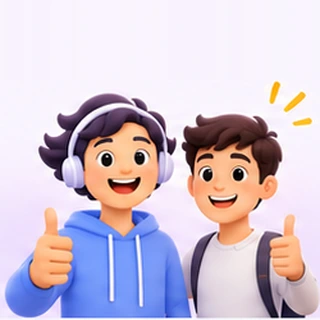
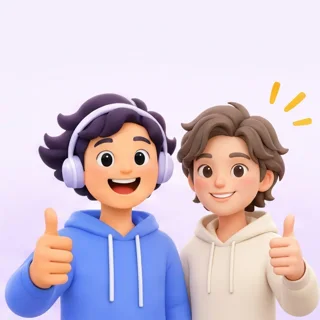
checkpoint before testing_agent_full_stack_o55
Emergent-Commit-Key: d935f93e17f556317a4f6991c1cbd87826fe65eae7a048607698565fdb2c4acd

diff --git a/frontend/src/pages/BiglypHome.jsx b/frontend/src/pages/BiglypHome.jsx
@@ -1,0 +1,126 @@
+import { useEffect } from "react";
+import { Link, useSearchParams } from "react-router-dom";
+import { ArrowRight, ArrowDown, ShieldCheck, Sparkles, CalendarCheck, Heart, Flower2, Sailboat, Sunrise } from "lucide-react";
+import { useTheme, ALL_PALETTES } from "@/lib/theme";
+import { BRANDS } from "@/lib/brand";
+import { ThemeToggle } from "@/components/Shell";
+import { Hero, AreasSection, HowSection, PrivacySection, Footer } from "@/pages/Landing";
+
+/** Order requested for the product switcher: youngest learners first. */
+const ORDER = ["focusedge", "mindedge", "mindmellow", "equimind"];
+const ICONS = { equimind: Heart, mindmellow: Flower2, mindedge: Sailboat, focusedge: Sunrise };
+const GRADES = { focusedge: "Class 6–8", mindedge: "Class 9–10", mindmellow: "Class 11–12", equimind: "University" };
+const BLURB = {
+  focusedge: "Focus, attention and study habits — a calm 40-question check-in with a 14-day starter plan.",
+  mindedge: "Stress in the board-exam build-up years — school, sleep, friends, family and screens.",
+  mindmellow: "Board exams, entrance tests and big decisions — gentle support for the final school years.",
+  equimind: "Academic, money, sleep and relationship stress for college and university students.",
+};
+
+const BiglypMark = () => (
+  <Link to="/" data-testid="biglyp-logo-link" className="flex items-center gap-2.5">
+    <span className="h-11 w-11 rounded-2xl grid place-items-center shadow-sm bg-gradient-to-br from-[#5a5fc8] via-[#2f6fa3] to-[#2d8a7c]">
+      <Sparkles className="h-5 w-5 text-white" strokeWidth={2.2} />
+    </span>
+    <span className="leading-none">
+      <span className="font-serif text-2xl font-semibold text-slate-900">Biglyp</span>
+      <span className="block font-mono text-[9px] uppercase tracking-[0.25em] text-slate-500 mt-1">Student wellbeing</span>
+    </span>
+  </Link>
+);
+
+const CommonHero = () => (
+  <section data-testid="biglyp-hero" className="relative overflow-hidden">
+    <div aria-hidden className="absolute -top-40 -left-32 h-[28rem] w-[28rem] rounded-full bg-[#dedff8] blur-3xl opacity-70" />
+    <div aria-hidden className="absolute -bottom-40 right-0 h-[26rem] w-[26rem] rounded-full bg-[#d6eee4] blur-3xl opacity-70" />
+    <div className="relative max-w-6xl mx-auto px-4 sm:px-8 pt-10 pb-16 lg:pt-16 lg:pb-20 grid lg:grid-cols-[1.05fr_1fr] gap-10 items-center">
+      <div>
+        <span className="inline-flex items-center gap-2 rounded-full bg-white/80 border border-slate-200 px-4 py-1.5 text-xs font-medium text-slate-600"><ShieldCheck className="h-3.5 w-3.5 text-[#2d8a7c]" /> Private · Non-diagnostic · Made in India</span>
+        <h1 data-testid="biglyp-hero-title" className="mt-6 font-serif text-4xl sm:text-5xl lg:text-6xl font-bold text-slate-900 leading-[1.05]">Small, honest steps to a <em className="text-[#5a5fc8]">calmer, more focused</em> you.</h1>
+        <p className="mt-6 text-lg text-slate-600 leading-relaxed max-w-xl">Biglyp brings four private check-ins together — one for every stage from Class 6 to university. A few minutes of honest answers become a friendly report and a 14-day plan of tiny, doable steps.</p>
+        <div className="mt-8 flex flex-wrap gap-3">
+          <a href="#programmes" data-testid="biglyp-hero-cta" className="h-12 px-6 rounded-full bg-slate-900 text-white font-medium inline-flex items-center gap-2 hover:bg-slate-700 transition-colors">Choose your programme <ArrowDown className="h-4 w-4" /></a>
+          <a href="#how" className="h-12 px-6 rounded-full bg-white border border-slate-200 text-slate-800 font-medium inline-flex items-center gap-2 hover:border-slate-400 transition-colors">How it works</a>
+        </div>
+        <div className="mt-10 grid grid-cols-3 gap-4 max-w-md">
+          {[["4", "Programmes"], ["6 → Uni", "Class 6 to university"], ["14-day", "Starter plans"]].map(([a, b]) => (
+            <div key={b}><div className="font-serif text-2xl font-bold text-slate-900 whitespace-nowrap">{a}</div><div className="text-xs text-slate-500 mt-1">{b}</div></div>
+          ))}
+        </div>
+      </div>
+      <div className="relative">
+        <img src="/how/biglyp_hero.webp" alt="Students of different ages relaxing together with books, a tablet and a laptop" data-testid="biglyp-hero-art" draggable={false} className="w-full h-auto select-none mix-blend-multiply" />
+        <div className="absolute bottom-4 left-2 sm:left-6 rounded-2xl bg-white/90 backdrop-blur shadow-lg border border-slate-100 px-4 py-3 flex items-center gap-3">
+          <CalendarCheck className="h-5 w-5 text-[#2d8a7c]" />
+          <div className="text-xs"><div className="font-semibold text-slate-800">One check-in, one plan</div><div className="text-slate-500">Tiny steps, tracked daily</div></div>
+        </div>
+      </div>
+    </div>
+  </section>
+);
+
+const ProductSwitcher = ({ sel, pick }) => (
+  <section id="programmes" data-testid="biglyp-product-switcher" className="max-w-6xl mx-auto px-4 sm:px-8 pt-4 pb-10 scroll-mt-4">
+    <p className="font-mono text-xs uppercase tracking-[0.25em] text-slate-500">Choose your programme</p>
+    <h2 className="mt-2 font-serif text-3xl sm:text-4xl font-bold text-slate-900">Which one fits you?</h2>
+    <div role="tablist" aria-label="Biglyp programmes" className="mt-7 grid sm:grid-cols-2 lg:grid-cols-4 gap-4">
+      {ORDER.map((k) => {
+        const b = BRANDS[k];
+        const Icon = ICONS[k];
+        const c = ALL_PALETTES[b.palettes[0]].p;
+        const on = sel === k;
+        return (
+          <button key={k} role="tab" aria-selected={on} data-testid={`hub-product-${k}`} onClick={() => pick(k)}
+            className={`relative text-left rounded-3xl p-5 border-2 transition-all duration-300 ${on ? "bg-white shadow-[0_24px_50px_-30px_rgba(15,23,42,0.45)] -translate-y-0.5" : "bg-white/60 border-transparent hover:bg-white hover:border-slate-200"}`}
+            style={on ? { borderColor: c } : {}}>
+            <div className="flex items-center justify-between">
+              <span className="h-11 w-11 rounded-2xl grid place-items-center" style={{ background: c }}><Icon className="h-5 w-5 text-white" strokeWidth={2.2} /></span>
+              <span className="rounded-full px-3 py-1 text-[11px] font-semibold" style={{ background: `${c}1a`, color: c }}>{GRADES[k]}</span>
+            </div>
+            <div className="mt-4 font-serif text-xl font-bold text-slate-900">{b.name}</div>
+            <p className="mt-1.5 text-sm text-slate-600 leading-relaxed">{BLURB[k]}</p>
+            <div className="mt-4 text-sm font-medium inline-flex items-center gap-1.5" style={{ color: c }}>{on ? "Showing below" : "Explore"} <ArrowRight className="h-4 w-4" /></div>
+          </button>
+        );
+      })}
+    </div>
+  </section>
+);
+
+export default function BiglypHome() {
+  const { setBrand, B } = useTheme();
+  const [params, setParams] = useSearchParams();
+  const q = params.get("p");
+  const sel = BRANDS[q] ? q : B.key;
+  useEffect(() => { setBrand(sel); }, [sel]); // eslint-disable-line react-hooks/exhaustive-deps
+  useEffect(() => { document.title = "Biglyp — Student wellbeing check-ins"; }, [B.key]);
+  const pick = (k) => setParams({ p: k }, { replace: true });
+  return (
+    <div data-testid="biglyp-home" className="bg-gradient-to-b from-white via-[#f7f8fc] to-white">
+      <header className="max-w-6xl mx-auto px-4 sm:px-8 h-20 flex items-center justify-between">
+        <BiglypMark />
+        <nav className="hidden md:flex gap-8 text-sm text-slate-600">
+          <a href="#programmes" className="hover:text-slate-900">Programmes</a>
+          <a href="#how" className="hover:text-slate-900">How it works</a>
+          <a href="#privacy" className="hover:text-slate-900">Privacy</a>
+        </nav>
+        <Link to={B.login} data-testid="biglyp-sign-in-btn" className="h-10 px-5 rounded-full bg-slate-900 text-white text-sm whitespace-nowrap inline-flex items-center hover:bg-slate-700 transition-colors">Sign in to {B.name}</Link>
+      </header>
+      <CommonHero />
+      <ProductSwitcher sel={sel} pick={pick} />
+      {B.key === sel && (
+        <div data-testid={`hub-product-panel-${sel}`} key={sel} className="eq-rise border-t border-slate-200/70 bg-eq-bg/40">
+          <div className="max-w-6xl mx-auto px-4 sm:px-8 pt-6 flex flex-wrap items-center justify-between gap-3">
+            <span className="font-mono text-xs uppercase tracking-[0.25em] text-eq">{B.name} · {GRADES[sel]}</span>
+            <div className="flex items-center gap-3"><ThemeToggle /><Link to={B.home} data-testid="hub-open-product-page" className="text-sm font-medium text-eq-dark hover:underline">Open {B.name} page →</Link></div>
+          </div>
+          <Hero />
+          <AreasSection />
+          <HowSection />
+          <PrivacySection />
+        </div>
+      )}
+      <Footer />
+    </div>
+  );
+}

diff --git a/frontend/src/components/report/HelpBodyAbout.jsx b/frontend/src/components/report/HelpBodyAbout.jsx
@@ -1,6 +1,6 @@
 import { Copy, Phone, MessageCircleMore, Sun, Pill, Droplet, HeartPulse, UtensilsCrossed, Footprints, Stethoscope, Eye, Moon } from "lucide-react";
 import { toast } from "sonner";
-import { PageShell, Art } from "@/components/report/PageShell";
+import { PageShell, Art, RImg } from "@/components/report/PageShell";
 import { fmtDate } from "@/lib/api";
 import { brandOf } from "@/lib/brand";
 const isFE = (r) => r?.programme === "focusedge";
@@ -37,7 +37,7 @@ export const HelpContent = ({ r }) => {
       <div className="grid md:grid-cols-2 gap-4">
         {tiers(r).map((x, i) => (
           <div key={x.t} data-testid={`help-tier-${i + 1}`} className={`rounded-2xl p-5 grid grid-cols-[96px_1fr] sm:grid-cols-[120px_1fr] gap-4 items-center ${x.c}`}>
-            <img src={`/report-art/${x.art}.webp`} alt="" draggable={false} className="w-full h-auto" data-testid={`help-tier-art-${i + 1}`} />
+            <RImg src={`/report-art/${x.art}.webp`} alt="" draggable={false} className="w-full h-auto" data-testid={`help-tier-art-${i + 1}`} />
             <div className="border-l border-current/20 pl-4" style={{ borderColor: "rgba(100,116,139,0.25)" }}>
               <div className="flex items-center justify-between gap-2"><h3 className="font-semibold">{x.t}</h3>{x.strong && <span className="text-[10px] font-mono uppercase bg-white/25 rounded-full px-2 py-0.5">Strongly suggested</span>}</div>
               <p className="mt-2 text-sm opacity-90 leading-relaxed">{x.d}</p>
@@ -83,10 +83,10 @@ export const BodyPage = ({ r, n, total }) => (
     </div>
     <div className="mt-6 grid md:grid-cols-2 gap-4 text-sm">
       <div className="rounded-2xl bg-eq-soft p-5"><h4 className="font-semibold text-eq-dark">What a basic health check-up looks like</h4>
-        <div className="mt-3 grid grid-cols-[90px_1fr] gap-4 items-center"><img src="/report-art/body_check.webp" alt="" draggable={false} className="w-full h-auto" />
+        <div className="mt-3 grid grid-cols-[90px_1fr] gap-4 items-center"><RImg src="/report-art/body_check.webp" alt="" draggable={false} className="w-full h-auto" />
         {isFE(r) ? <ul data-testid="body-checkup-fe" className="border-l border-slate-300/60 pl-4 space-y-1.5 text-slate-700"><li>Ask a parent to book a 15-minute visit to a family doctor. Tell them: &lsquo;I&apos;ve been having trouble focusing and feeling tired for weeks.&rsquo;</li><li>Common checks for your age: CBC, ferritin / iron, Vitamin D, Vitamin B12, thyroid (TSH), and a simple eye check.</li><li>If focus problems have been there for a long time and clearly affect school, the doctor may suggest a paediatrician or psychologist. That&apos;s routine — not something to worry about.</li></ul> :
         <ul className="border-l border-slate-300/60 pl-4 space-y-1.5 text-slate-700"><li>A 15-minute visit to your {brandOf(r).school ? "school" : "campus"} health centre or a GP. Tell them: &lsquo;I&apos;ve been tired, sleeping poorly and finding it hard to focus for weeks.&rsquo;</li><li>A common basic panel: CBC, ferritin / iron studies, Vitamin D (25-OH), Vitamin B12, thyroid (TSH). The doctor decides which tests fit.</li></ul>}</div></div>
-      <div className="rounded-2xl bg-[#fef3c7] p-5"><h4 className="font-semibold text-[#92400e]">Both can be true</h4><div className="mt-3 grid grid-cols-[90px_1fr] gap-4 items-center"><img src="/report-art/body_scale.webp" alt="" draggable={false} className="w-full h-auto" /><p className="border-l border-amber-300/70 pl-4 text-slate-700">{isFE(r) ? "Focus problems can come from the body AND from habits — usually both. Fix the body, keep the plan, and keep talking to your parents and teachers." : <>Stress is real AND a physical shortfall can make it harder to cope. Rule out the physical, keep going with the plan{r.path === 2 ? ", and keep your counsellor appointment" : ""}. This report never prescribes supplements or doses.</>}</p></div></div>
+      <div className="rounded-2xl bg-[#fef3c7] p-5"><h4 className="font-semibold text-[#92400e]">Both can be true</h4><div className="mt-3 grid grid-cols-[90px_1fr] gap-4 items-center"><RImg src="/report-art/body_scale.webp" alt="" draggable={false} className="w-full h-auto" /><p className="border-l border-amber-300/70 pl-4 text-slate-700">{isFE(r) ? "Focus problems can come from the body AND from habits — usually both. Fix the body, keep the plan, and keep talking to your parents and teachers." : <>Stress is real AND a physical shortfall can make it harder to cope. Rule out the physical, keep going with the plan{r.path === 2 ? ", and keep your counsellor appointment" : ""}. This report never prescribes supplements or doses.</>}</p></div></div>
     </div>
   </PageShell>
 );

diff --git a/frontend/src/pages/Landing.jsx b/frontend/src/pages/Landing.jsx
@@ -117,7 +117,7 @@ const HeroCard = () => {
   );
 };
 
-const Hero = () => (
+export const Hero = () => (
   <section className="relative overflow-hidden">
     <div className="absolute inset-0 eq-grain opacity-60" />
     <div className="relative max-w-6xl mx-auto px-4 sm:px-8 pt-12 pb-20 lg:pt-20 lg:pb-28 grid lg:grid-cols-[1.1fr_0.9fr] gap-14 items-center">
@@ -150,7 +150,7 @@ const Hero = () => (
   </section>
 );
 
-const AreasSection = () => (
+export const AreasSection = () => (
   <section id="areas" className="max-w-6xl mx-auto px-4 sm:px-8 py-20">
     <p className="font-mono text-xs uppercase tracking-[0.25em] text-eq">{COPY[useBrand().key].areasEyebrow || "Six areas of student life"}</p>
     <h2 className="mt-3 font-serif text-3xl sm:text-4xl font-bold text-slate-900 max-w-2xl">{COPY[useBrand().key].areasTitle || "Stress rarely lives in one place. We look at all six."}</h2>
@@ -166,10 +166,12 @@ const AreasSection = () => (
   </section>
 );
 
-const HowSection = () => (
+export const HowSection = () => (
   <section id="how" className="bg-white/60 border-y border-eq/10">
     <div className="max-w-6xl mx-auto px-4 sm:px-8 py-20 grid lg:grid-cols-2 gap-14 items-center">
-      <img src="https://images.unsplash.com/photo-1514369118554-e20d93546b30?crop=entropy&cs=srgb&fm=jpg&q=80&w=1200" alt="Student writing in a journal" className="rounded-[2rem] w-full h-[420px] object-cover" />
+      <div className="rounded-[2rem] bg-white border border-eq/10 shadow-[0_24px_60px_-36px_rgb(var(--eq-p)/0.5)] p-6 grid place-items-center">
+        <img data-testid="how-it-works-art" src={`/how/${useBrand().key}.webp`} alt={`${useBrand().name} check-in illustration`} draggable={false} className="w-full max-w-[420px] h-[380px] object-contain select-none" />
+      </div>
       <div>
         <p className="font-mono text-xs uppercase tracking-[0.25em] text-eq">How it works</p>
         <h2 className="mt-3 font-serif text-3xl sm:text-4xl font-bold text-slate-900">A map to act on — <em className="text-eq">not a verdict.</em></h2>
@@ -186,7 +188,7 @@ const HowSection = () => (
   </section>
 );
 
-const PrivacySection = () => (
+export const PrivacySection = () => (
   <section id="privacy" className="max-w-6xl mx-auto px-4 sm:px-8 py-20 grid md:grid-cols-[1fr_1.2fr] gap-10 items-start">
     <div>
       <span className="h-12 w-12 rounded-2xl bg-[#1b1e3d] grid place-items-center"><Lock className="h-5 w-5 text-[#fbbf24]" /></span>
@@ -199,7 +201,7 @@ const PrivacySection = () => (
   </section>
 );
 
-const Footer = () => (
+export const Footer = () => (
   <footer className="border-t border-eq/10">
     <div className="max-w-6xl mx-auto px-4 sm:px-8 py-14 grid sm:grid-cols-[2fr_1fr_1fr] gap-10">
       <div><Logo /><p className="mt-4 text-sm text-slate-500 max-w-sm">Supporting student wellbeing with honest self-reflection and small, doable actions.</p></div>

diff --git a/frontend/src/components/report/ProgressPages.jsx b/frontend/src/components/report/ProgressPages.jsx
@@ -1,4 +1,4 @@
-import { PageShell, Art } from "@/components/report/PageShell";
+import { PageShell, Art, RImg } from "@/components/report/PageShell";
 import { weekStats, week1Writeup, week2Writeup, trendInsights, bandName, nextStepsPlan } from "@/lib/progress";
 import { ArrowUpRight, ArrowDownRight, Minus, Check, CalendarCheck, SquareCheck, CalendarDays, Smile, Target, TrendingUp } from "lucide-react";
 
@@ -18,7 +18,7 @@ const WeekBody = ({ s, prev, w = 1, art = "/report-art/week.webp" }) => (
 
 const Writeup = ({ title, children, clip = "/report-art/week_clip.webp", testid }) => (
   <div data-testid={testid} className="mt-7 rounded-2xl bg-eq-soft p-6 grid sm:grid-cols-[120px_1fr] gap-5 items-center">
-    <img src={clip} alt="" draggable={false} className="hidden sm:block w-full h-auto" />
+    <RImg src={clip} alt="" draggable={false} className="hidden sm:block w-full h-auto" />
     <div className="sm:border-l sm:border-eq/20 sm:pl-5">
       <h3 className="font-mono text-[11px] uppercase tracking-widest text-eq-dark">{title}</h3>
       {children}
@@ -95,7 +95,7 @@ export const NextStepsPage = ({ r, n, total }) => {
           return (
             <div key={k} data-testid={`next-option-${k}`} data-recommended={on} className={`relative rounded-2xl p-5 sm:p-6 border-2 ${o.tint} ${on ? "border-[#6d5ce7]" : "border-transparent"}`}>
               {on && <span className="absolute -top-3 left-1/2 -translate-x-1/2 whitespace-nowrap rounded-full bg-[#6d5ce7] text-white text-[11px] leading-4 font-semibold px-3 py-1">Recommended for you</span>}
-              <img src={o.art} alt="" draggable={false} className="block mx-auto h-24 w-auto object-contain select-none" />
+              <RImg src={o.art} alt="" draggable={false} className="block mx-auto h-24 w-auto object-contain select-none" />
               <h3 className="mt-4 font-serif text-xl font-bold leading-snug text-slate-900">{o.title}</h3>
               <p className="mt-2 text-[15px] leading-relaxed text-slate-700">{o.body}</p>
             </div>
@@ -103,7 +103,7 @@ export const NextStepsPage = ({ r, n, total }) => {
         })}
       </div>
       <div data-testid="next-steps-list" className="mt-6 flow-root rounded-2xl bg-white border border-eq/15 p-5 sm:p-6">
-        <img src="/report-art/next_study.webp" alt="" data-testid="next-steps-list-art" draggable={false} className="hidden md:block float-right w-[36%] max-w-[340px] ml-6 mb-2 select-none" />
+        <RImg src="/report-art/next_study.webp" alt="" data-testid="next-steps-list-art" draggable={false} className="hidden md:block float-right w-[36%] max-w-[340px] ml-6 mb-2 select-none" />
         <h3 className="font-mono text-[12px] uppercase tracking-widest text-eq-dark">{ns.listTitle}</h3>
         <ul className="mt-4 space-y-4">
           {ns.items.map((a) => (

diff --git a/frontend/src/components/report/PageShell.jsx b/frontend/src/components/report/PageShell.jsx
@@ -5,6 +5,15 @@ import { useBrand } from "@/lib/theme";
 /** Brand of the report being shown (may differ from the viewer's brand for shared counsellors). */
 export const ReportBrandCtx = createContext(null);
 
+/** FocusEdge reports use their own 3D illustration set (public/report-art/fe/). */
+export const useArtSrc = () => {
+  const B = useContext(ReportBrandCtx);
+  return (src) => (B?.key === "focusedge" && typeof src === "string" ? src.replace(/^\/report-art\/(fe_)?/, "/report-art/fe/") : src);
+};
+
+/** <img> for report illustrations (maps to the programme's art set). */
+export const RImg = ({ src, ...rest }) => <img src={useArtSrc()(src)} {...rest} />;
+
 const MOTIFS = [Sun, Mountain, Waves, Leaf, Sprout, Feather, Moon, Cloud, Wind, Flower2, Star];
 
 export const PageShell = ({ n, total, title, eyebrow, id, children, dark, testid, art, artAlt = "", inline, side, headExtra }) => {
@@ -26,7 +35,7 @@ export const PageShell = ({ n, total, title, eyebrow, id, children, dark, testid
           {headExtra && <div className="mt-8">{headExtra}</div>}
         </div>
         {side && <div className="min-w-0">{side}</div>}
-        {art && <img src={art} alt={artAlt} data-testid={`${testid}-art`} draggable={false} className="h-24 w-24 sm:h-36 sm:w-36 shrink-0 rounded-3xl object-cover ring-1 ring-eq/10 shadow-[0_12px_30px_-18px_rgb(var(--eq-p)/0.6)]" />}
+        {art && <RImg src={art} alt={artAlt} data-testid={`${testid}-art`} draggable={false} className="h-24 w-24 sm:h-36 sm:w-36 shrink-0 rounded-3xl object-cover ring-1 ring-eq/10 shadow-[0_12px_30px_-18px_rgb(var(--eq-p)/0.6)]" />}
       </div>
       <div className="mt-7">{children}</div>
       <div className={`mt-10 pt-4 border-t text-[10px] font-mono uppercase tracking-widest flex justify-between ${dark ? "ft-line ft-faint" : "border-slate-100 text-slate-400"}`}>
@@ -41,5 +50,5 @@ export const Pill = ({ children, className = "" }) => (
 );
 
 export const Art = ({ src, alt = "", testid, className = "" }) => (
-  <img src={src} alt={alt} data-testid={testid} draggable={false} className={`block w-full h-auto object-contain select-none ${className}`} />
+  <RImg src={src} alt={alt} data-testid={testid} draggable={false} className={`block w-full h-auto object-contain select-none ${className}`} />
 );

diff --git a/frontend/src/components/home/CalmStreak.jsx b/frontend/src/components/home/CalmStreak.jsx
@@ -1,7 +1,7 @@
 import { Flame } from "lucide-react";
 import { Tooltip, TooltipContent, TooltipProvider, TooltipTrigger } from "@/components/ui/tooltip";
 import { elapsedDays } from "@/lib/progress";
-import { PHASES, STAGES, currentStage, toNextStage, PER_STAGE } from "@/lib/stages";
+import { PHASES, STAGES, currentStage, toNextStage, PER_STAGE, stageSrc } from "@/lib/stages";
 
 export const BADGES = [
   { name: "First Step", msg: "You showed up for yourself. Every journey starts exactly like this." },
@@ -80,7 +80,7 @@ export const StreakCard = ({ r, onOpenDaily, pending }) => {
                   <button data-testid={`streak-badge-${i + 1}`} data-earned={got} aria-label={`${b.name}: ${st.caption}`}
                     className="group flex flex-col items-center focus:outline-none">
                     <span className={`relative h-12 w-12 sm:h-14 sm:w-14 rounded-full overflow-hidden transition-transform duration-300 group-hover:-translate-y-0.5 ${got ? "ring-2 ring-eq shadow-[0_6px_16px_-6px_rgb(var(--eq-p)/0.7)]" : next ? "outline-dashed outline-2 outline-eq/50 outline-offset-2" : "ring-1 ring-slate-200"}`}>
-                      <img src={st.src} alt={st.caption} draggable={false} className={`h-full w-full object-cover ${got ? "" : "grayscale opacity-40"}`} />
+                      <img src={stageSrc(st.n, r?.programme)} alt={st.caption} draggable={false} className={`h-full w-full object-cover ${got ? "" : "grayscale opacity-40"}`} />
                     </span>
                     <span className={`mt-1.5 h-4 min-w-4 px-1 rounded-full text-[10px] font-semibold grid place-items-center ${got ? "bg-eq text-white" : "bg-slate-100 text-slate-400"}`}>{i + 1}</span>
                   </button>

diff --git a/frontend/src/components/report/PlanTrack.jsx b/frontend/src/components/report/PlanTrack.jsx
@@ -1,5 +1,5 @@
 import { Clock, CalendarDays, Lightbulb, ListChecks } from "lucide-react";
-import { PageShell, Art } from "@/components/report/PageShell";
+import { PageShell, Art, RImg } from "@/components/report/PageShell";
 
 const ICON_BY_ID = { "fe-wake": "ic_wake", "fe-pomo": "ic_laptop", "fe-2min": "ic_laptop", "fe-checkin": "ic_breath", "fe-478": "ic_breath", "fe-askhelp": "ic_chat", "fe-buddy": "ic_chat", "fe-phone": "ic_check", "b-phone": "ic_check", "b-dump": "ic_check", "e-three": "ic_check", "b-wake": "ic_wake", "a-10min": "ic_laptop", "c-breath": "ic_breath", "f-money": "ic_chat", "c-checkin": "ic_check" };
 const ICON_BY_AREA = { a: "ic_laptop", b: "ic_wake", c: "ic_breath", d: "ic_chat", e: "ic_check", f: "ic_chat" };
@@ -17,7 +17,7 @@ export const planIcons = (plan) => {
 const Activity = ({ a, i, icon }) => (
   <div data-testid={`plan-activity-${i}`} className="rounded-3xl border border-eq/10 bg-gradient-to-r from-eq-bg/70 to-white grid md:grid-cols-[1fr_1.25fr] overflow-hidden" style={{ breakInside: "avoid" }}>
     <div className="p-5 flex items-center gap-4">
-      <img src={icon} alt="" data-testid={`plan-activity-icon-${i}`} draggable={false} className="h-24 w-24 sm:h-28 sm:w-28 shrink-0 object-contain" />
+      <RImg src={icon} alt="" data-testid={`plan-activity-icon-${i}`} draggable={false} className="h-24 w-24 sm:h-28 sm:w-28 shrink-0 object-contain" />
       <div className="min-w-0">
         <div className="flex items-start gap-3">
           <span className="h-8 w-8 shrink-0 rounded-lg bg-eq text-white font-semibold grid place-items-center">{i + 1}</span>

diff --git a/frontend/src/components/Avatar.jsx b/frontend/src/components/Avatar.jsx
@@ -1,9 +1,12 @@
 import { motion, AnimatePresence } from "framer-motion";
-import { STAGES } from "@/lib/stages";
+import { STAGES, stageSrc } from "@/lib/stages";
+import { useBrand } from "@/lib/theme";
 
 /** Progress avatar: shows the student's growth stage (1-14). Stages only move forward. */
-export const Student = ({ stage = 1, bounce, dim, size = "h-44 w-44", testid = "student-avatar" }) => {
-  const s = STAGES[Math.max(1, Math.min(14, stage)) - 1];
+export const Student = ({ stage = 1, bounce, dim, size = "h-44 w-44", testid = "student-avatar", programme }) => {
+  const B = useBrand();
+  const s0 = STAGES[Math.max(1, Math.min(14, stage)) - 1];
+  const s = { ...s0, src: stageSrc(s0.n, programme || B?.key) };
   return (
     <motion.div data-testid={testid} data-stage={s.n} className={`relative mx-auto ${size}`}
       animate={bounce ? { y: [0, -12, 0], scale: [1, 1.05, 1] } : { y: 0 }} transition={{ duration: 0.6 }}>

diff --git a/frontend/src/App.js b/frontend/src/App.js
@@ -3,6 +3,7 @@ import { BrowserRouter, Routes, Route, Navigate } from "react-router-dom";
 import { Toaster } from "@/components/ui/sonner";
 import { AuthProvider, useAuth } from "@/lib/auth";
 import { ThemeProvider, useBrand } from "@/lib/theme";
+import BiglypHome from "@/pages/BiglypHome";
 import Landing from "@/pages/Landing";
 import Login from "@/pages/Login";
 import StudentHome from "@/pages/StudentHome";
@@ -31,7 +32,8 @@ function App() {
       <AuthProvider>
         <BrowserRouter>
           <Routes>
-            <Route path="/" element={<Landing />} />
+            <Route path="/" element={<BiglypHome />} />
+            <Route path="/equimind" element={<Landing brand="equimind" />} />
             <Route path="/login" element={<Login />} />
             <Route path="/mindmellow" element={<Landing brand="mindmellow" />} />
             <Route path="/mindmellow/login" element={<Login brand="mindmellow" />} />

diff --git a/frontend/src/components/report/ReportPages.jsx b/frontend/src/components/report/ReportPages.jsx
@@ -1,3 +1,5 @@
+import { ReportBrandCtx } from "@/components/report/PageShell";
+import { BRANDS } from "@/lib/brand";
 import { CoverPage, SnapshotPage } from "@/components/report/CoverSnapshot";
 import { NarrativePage, PriorityPage } from "@/components/report/NarrativePriority";
 import { PlanPage } from "@/components/report/PlanTrack";
@@ -34,5 +36,5 @@ export const ReportPages = ({ r, onSave, print }) => {
     (p) => <AboutPage key="about" r={r} {...p} />,
   ];
   const total = pages.length;
-  return <div className="space-y-6">{pages.map((fn, i) => fn({ n: i + 1, total }))}</div>;
+  return <ReportBrandCtx.Provider value={BRANDS[r.programme] || BRANDS.equimind}><div className="space-y-6">{pages.map((fn, i) => fn({ n: i + 1, total }))}</div></ReportBrandCtx.Provider>;
 };

diff --git a/frontend/src/lib/stages.js b/frontend/src/lib/stages.js
@@ -14,6 +14,9 @@ export const STAGES = [
   "More social and self-assured", "Confident, happy and ready for what's next",
 ].map((caption, i) => ({ n: i + 1, caption, src: `/avatars/stages/stage${i + 1}.webp` }));
 
+/** Avatar image for a stage; FocusEdge has its own 3D avatar set. */
+export const stageSrc = (n, programme) => (programme === "focusedge" ? `/avatars/fe/stage${n}.webp` : `/avatars/stages/stage${n}.webp`);
+
 export const phaseOf = (stage) => PHASES.find((p) => stage >= p.from && stage <= p.to) || PHASES[0];
 
 const clamp = (n) => Math.max(1, Math.min(14, n));

diff --git a/frontend/src/lib/brand.js b/frontend/src/lib/brand.js
@@ -1,7 +1,7 @@
 /** Programme branding. Both programmes share one engine and report format; only content, words and colours differ. */
 export const BRANDS = {
   equimind: {
-    key: "equimind", name: "EquiMind", tagline: "Student stress check-in", home: "/", login: "/login",
+    key: "equimind", name: "EquiMind", tagline: "Student stress check-in", home: "/equimind", login: "/login",
     audience: "university students", counsellor: "campus counsellor", counsellorTitle: "Campus counsellor",
     palettes: ["sky", "mint"], pdfPrefix: "EquiMind", school: false,
   },
